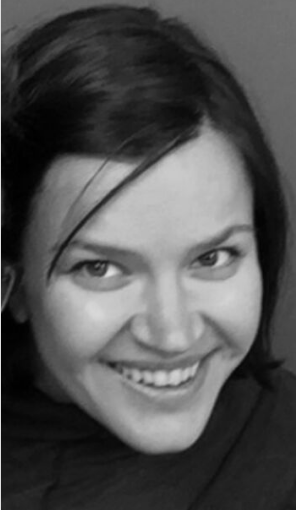
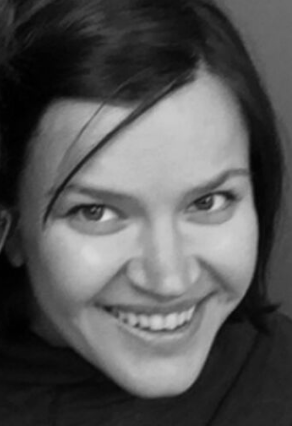
Replace valia.jpg (better-crop), add width, float #about-row img in stylesheet css, add clear:both #projects-row in stylesheet.css

diff --git a/css/stylesheet.css b/css/stylesheet.css
@@ -5,3 +5,12 @@ body {
 .container {
   background-color: #ffffff;
 }
+
+#about-row img {
+  width: 100px;
+  float: left;
+}
+
+#projects-row {
+  clear: both;
+}
